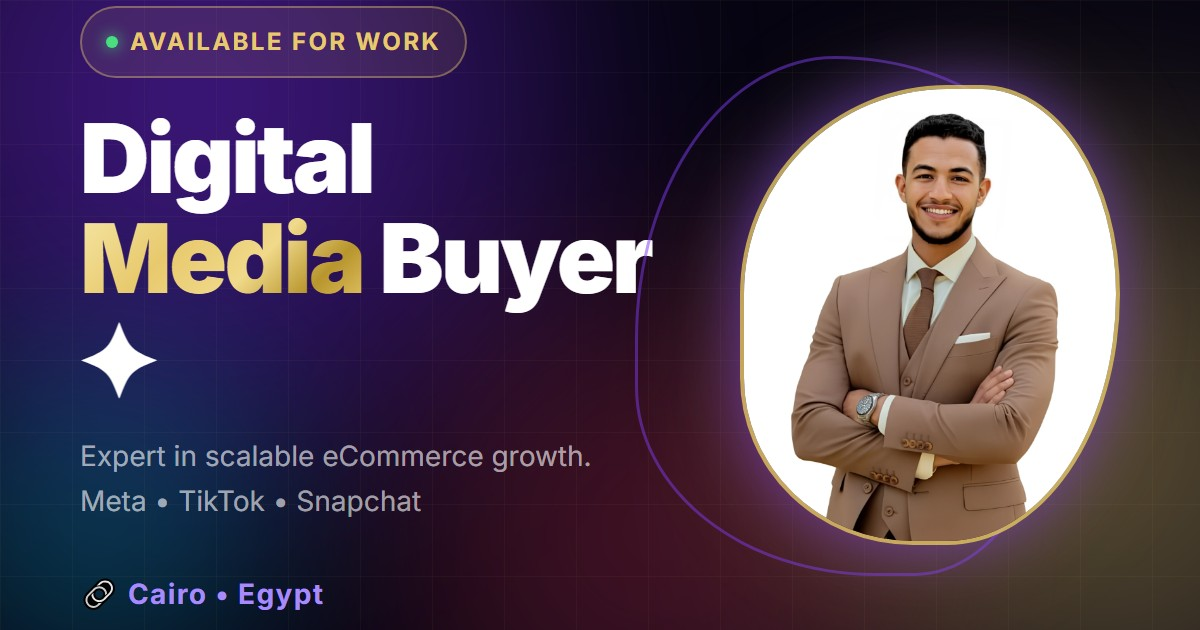
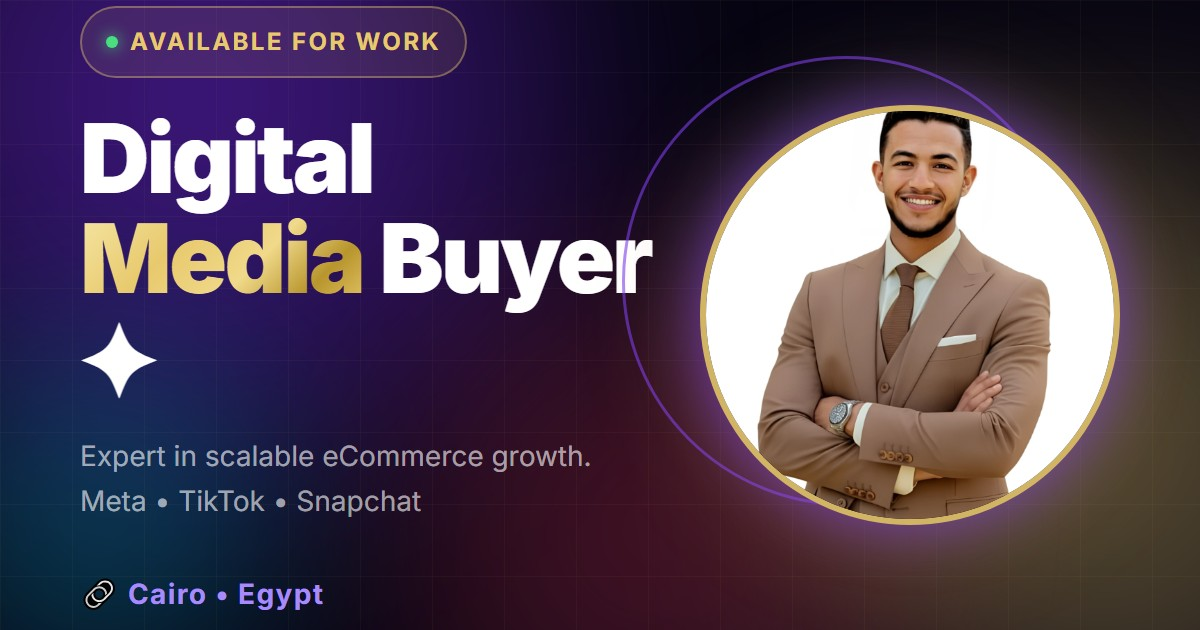
Fix OG image profile picture cutoff by making it a perfect circle

diff --git a/artifacts/media-buyer-cv/og-template.html b/artifacts/media-buyer-cv/og-template.html
@@ -103,22 +103,32 @@
 
   /* Right Side: Profile Photo Frame */
   .photo-frame {
-    width: 380px;
-    height: 460px;
-    border-radius: 60% 40% 50% 50% / 50% 50% 60% 40%;
+    width: 420px;
+    height: 420px;
+    border-radius: 50%;
     position: relative;
-    border: 4px solid rgba(232,201,109,0.8);
-    box-shadow: 0 0 60px rgba(124,58,237,0.6), 0 0 120px rgba(232,201,109,0.2);
+    border: 6px solid rgba(232,201,109,0.9);
+    box-shadow: 0 0 60px rgba(124,58,237,0.7), 0 0 120px rgba(232,201,109,0.3);
     overflow: hidden;
+    display: flex;
+    justify-content: center;
+    align-items: center;
+    background: #0d091a;
   }
   .photo-frame img {
-    width: 100%; height: 100%; object-fit: cover; object-position: center top;
+    width: 100%; 
+    height: 100%; 
+    object-fit: cover; 
+    object-position: center;
   }
   .photo-halo {
-    position: absolute; right: 45px; top: 50px;
-    width: 440px; height: 520px;
-    border-radius: 50% 60% 40% 60% / 60% 40% 60% 40%;
-    border: 3px solid rgba(124,58,237,0.5);
+    position: absolute; 
+    right: 48px; 
+    top: 50px;
+    width: 450px; 
+    height: 450px;
+    border-radius: 50%;
+    border: 3px solid rgba(124,58,237,0.6);
   }
 </style>
 </head>
